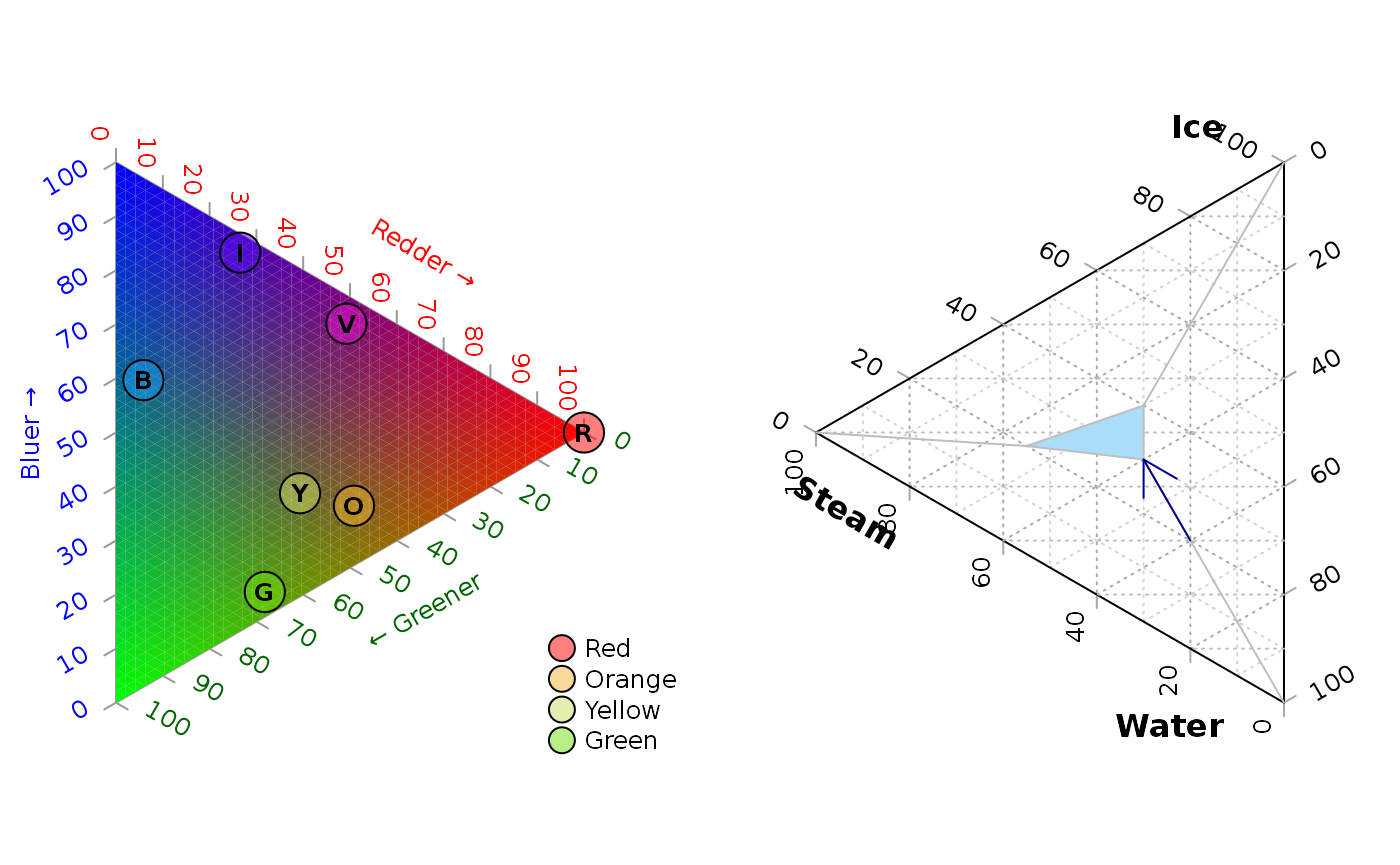
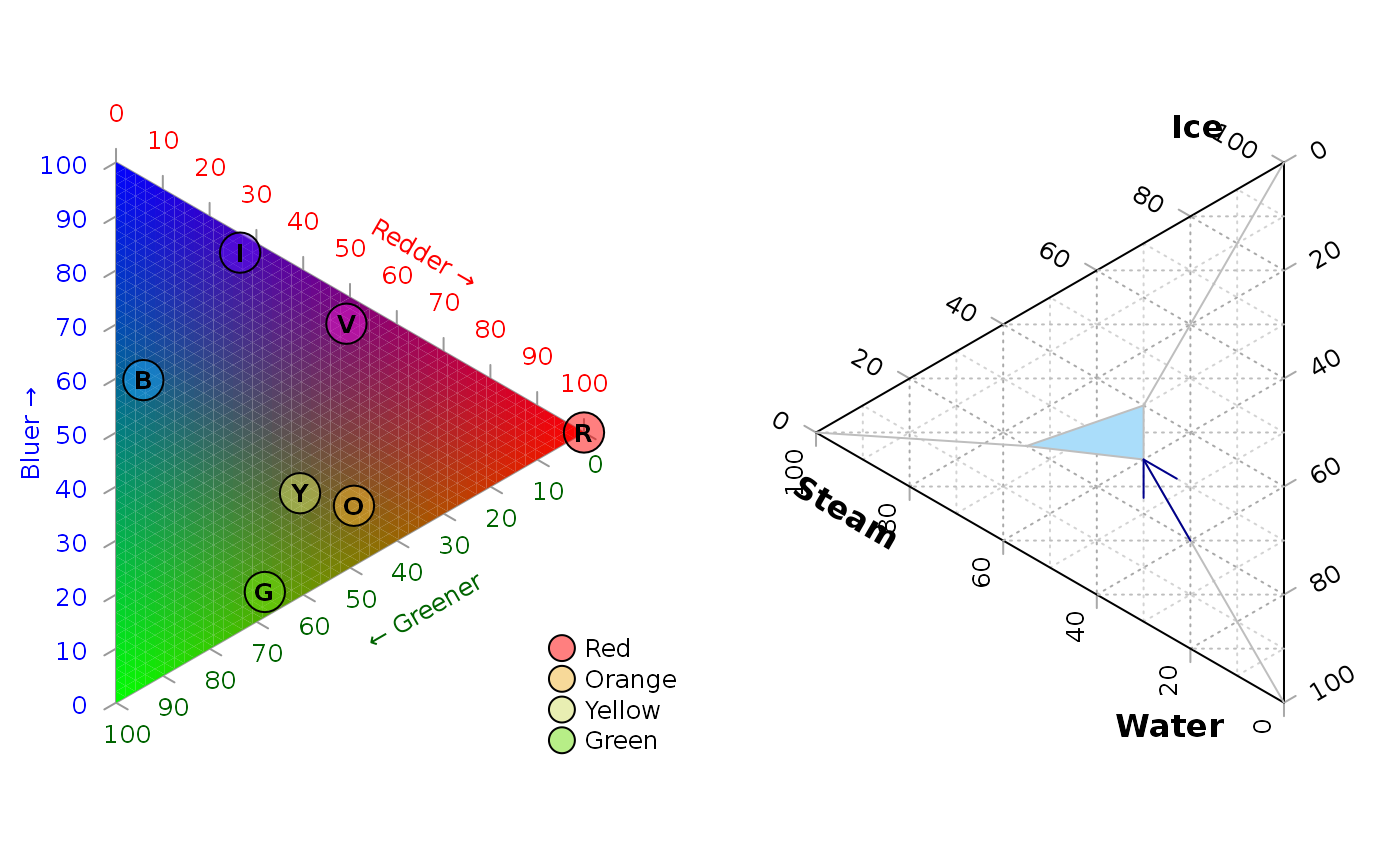
Built site for Ternary: 1.1.4.9002@7cd365e

diff --git a/dev/articles/Ternary.html b/dev/articles/Ternary.html
@@ -40,7 +40,7 @@
       </button>
       <span class="navbar-brand">
         <a class="navbar-link" href="../index.html">Ternary</a>
-        <span class="version label label-danger" data-toggle="tooltip" data-placement="bottom" title="In-development version">1.1.4.9001</span>
+        <span class="version label label-danger" data-toggle="tooltip" data-placement="bottom" title="In-development version">1.1.4.9002</span>
       </span>
     </div>
 
@@ -139,13 +139,14 @@
 <h2 class="hasAnchor">
 <a href="#plot-two-stylised-plots-side-by-side-and-plot-data" class="anchor"></a>Plot two stylised plots side by side, and plot data</h2>
 <div class="sourceCode" id="cb6"><pre class="downlit">
-<span class="fu"><a href="https://rdrr.io/r/graphics/par.html">par</a></span>(mfrow=<span class="fu"><a href="https://rdrr.io/r/base/c.html">c</a></span>(<span class="fl">1</span>, <span class="fl">2</span>), mar=<span class="fu"><a href="https://rdrr.io/r/base/rep.html">rep</a></span>(<span class="fl">0.3</span>, <span class="fl">4</span>))
-<span class="fu"><a href="../reference/TernaryPlot.html">TernaryPlot</a></span>(alab=<span class="st">"Redder \u2192"</span>, blab=<span class="st">"\u2190 Greener"</span>, clab=<span class="st">"Bluer \u2192"</span>,
-            lab.col=<span class="fu"><a href="https://rdrr.io/r/base/c.html">c</a></span>(<span class="st">'red'</span>, <span class="st">'darkgreen'</span>, <span class="st">'blue'</span>),
-            point=<span class="st">'right'</span>, lab.cex=<span class="fl">0.8</span>, grid.minor.lines=<span class="fl">0</span>,
-            grid.lty=<span class="st">'solid'</span>, col=<span class="fu"><a href="https://rdrr.io/r/grDevices/rgb.html">rgb</a></span>(<span class="fl">0.9</span>, <span class="fl">0.9</span>, <span class="fl">0.9</span>), grid.col=<span class="st">'white'</span>, 
-            axis.col=<span class="fu"><a href="https://rdrr.io/r/grDevices/rgb.html">rgb</a></span>(<span class="fl">0.6</span>, <span class="fl">0.6</span>, <span class="fl">0.6</span>), ticks.col=<span class="fu"><a href="https://rdrr.io/r/grDevices/rgb.html">rgb</a></span>(<span class="fl">0.6</span>, <span class="fl">0.6</span>, <span class="fl">0.6</span>),
-            padding=<span class="fl">0.08</span>)
+<span class="fu"><a href="https://rdrr.io/r/graphics/par.html">par</a></span>(mfrow = <span class="fu"><a href="https://rdrr.io/r/base/c.html">c</a></span>(<span class="fl">1</span>, <span class="fl">2</span>), mar = <span class="fu"><a href="https://rdrr.io/r/base/rep.html">rep</a></span>(<span class="fl">0.3</span>, <span class="fl">4</span>))
+<span class="fu"><a href="../reference/TernaryPlot.html">TernaryPlot</a></span>(alab = <span class="st">"Redder \u2192"</span>, blab = <span class="st">"\u2190 Greener"</span>, clab = <span class="st">"Bluer \u2192"</span>,
+            lab.col = <span class="fu"><a href="https://rdrr.io/r/base/c.html">c</a></span>(<span class="st">'red'</span>, <span class="st">'darkgreen'</span>, <span class="st">'blue'</span>),
+            point = <span class="st">'right'</span>, lab.cex = <span class="fl">0.8</span>, grid.minor.lines = <span class="fl">0</span>,
+            grid.lty = <span class="st">'solid'</span>, col = <span class="fu"><a href="https://rdrr.io/r/grDevices/rgb.html">rgb</a></span>(<span class="fl">0.9</span>, <span class="fl">0.9</span>, <span class="fl">0.9</span>), grid.col = <span class="st">'white'</span>, 
+            axis.col = <span class="fu"><a href="https://rdrr.io/r/grDevices/rgb.html">rgb</a></span>(<span class="fl">0.6</span>, <span class="fl">0.6</span>, <span class="fl">0.6</span>), ticks.col = <span class="fu"><a href="https://rdrr.io/r/grDevices/rgb.html">rgb</a></span>(<span class="fl">0.6</span>, <span class="fl">0.6</span>, <span class="fl">0.6</span>),
+            axis.rotate = <span class="fl">FALSE</span>,
+            padding = <span class="fl">0.08</span>)
 <span class="co"># Colour the background:</span>
 <span class="kw">cols</span> <span class="op">&lt;-</span> <span class="fu"><a href="../reference/TernaryPointValues.html">TernaryPointValues</a></span>(<span class="kw">rgb</span>)
 <span class="fu"><a href="../reference/ColourTernary.html">ColourTernary</a></span>(<span class="kw">cols</span>, spectrum = <span class="kw">NULL</span>)

diff --git a/dev/reference/TernaryPlot.html b/dev/reference/TernaryPlot.html
@@ -88,7 +88,7 @@
       </button>
       <span class="navbar-brand">
         <a class="navbar-link" href="../index.html">Ternary</a>
-        <span class="version label label-danger" data-toggle="tooltip" data-placement="bottom" title="In-development version">1.1.4.9001</span>
+        <span class="version label label-danger" data-toggle="tooltip" data-placement="bottom" title="In-development version">1.1.4.9002</span>
       </span>
     </div>
 
@@ -184,6 +184,8 @@
   axis.labels = <span class='fl'>TRUE</span>,
   axis.cex = <span class='fl'>0.8</span>,
   axis.font = <span class='fu'><a href='https://rdrr.io/r/graphics/par.html'>par</a></span>(<span class='st'>"font"</span>),
+  axis.rotate = <span class='fl'>TRUE</span>,
+  axis.pos = <span class='kw'>NULL</span>,
   axis.tick = <span class='fl'>TRUE</span>,
   axis.lwd = <span class='fl'>1</span>,
   ticks.lwd = <span class='kw'>axis.lwd</span>,
@@ -335,6 +337,19 @@ Use a vector of length three to set a different value for each direction.</p></t
     <tr>
       <th>axis.font</th>
       <td><p>Font for text. Defaults to <code><a href='https://rdrr.io/r/graphics/par.html'>par('font')</a></code>.</p></td>
+    </tr>
+    <tr>
+      <th>axis.rotate</th>
+      <td><p>Logical specifying whether to rotate axis labels
+to parallel grid lines, or numeric specifying custom rotation for each axis,
+to be passed as <code>srt</code> parameter to <code><a href='https://rdrr.io/r/graphics/text.html'>text()</a></code>.  Expand margins or set
+<code><a href='https://rdrr.io/r/graphics/par.html'>par(xpd = NA)</a></code> if labels are clipped.</p></td>
+    </tr>
+    <tr>
+      <th>axis.pos</th>
+      <td><p>Vector of length one or three specifying position of axis
+labels, to be passed as <code>pos</code> parameter to <code><a href='https://rdrr.io/r/graphics/text.html'>text()</a></code>; populated automatically
+if <code>NULL</code> (the default).</p></td>
     </tr>
     <tr>
       <th>axis.tick</th>

diff --git a/dev/news/index.html b/dev/news/index.html
@@ -87,7 +87,7 @@
       </button>
       <span class="navbar-brand">
         <a class="navbar-link" href="../index.html">Ternary</a>
-        <span class="version label label-danger" data-toggle="tooltip" data-placement="bottom" title="In-development version">1.1.4.9001</span>
+        <span class="version label label-danger" data-toggle="tooltip" data-placement="bottom" title="In-development version">1.1.4.9002</span>
       </span>
     </div>
 
@@ -139,6 +139,14 @@
       <small>Source: <a href='https://github.com/ms609/Ternary/blob/master/NEWS.md'><code>NEWS.md</code></a></small>
     </div>
 
+    <div id="ternary-v1-1-4-9002-development" class="section level1">
+<h1 class="page-header" data-toc-text="1.1.4.9002">
+<a href="#ternary-v1-1-4-9002-development" class="anchor"></a>Ternary v1.1.4.9002 (development)<small> Unreleased </small>
+</h1>
+<ul>
+<li>Optional parameter <code>axis.rotate</code> to allow axis labels to be plotted ‘unrotated’ (<a href="https://github.com/ms609/Ternary/issues/38" class="uri">https://github.com/ms609/Ternary/issues/38</a>).</li>
+</ul>
+</div>
     <div id="ternary-v1-1-4-9001-development" class="section level1">
 <h1 class="page-header" data-toc-text="1.1.4.9001">
 <a href="#ternary-v1-1-4-9001-development" class="anchor"></a>Ternary v1.1.4.9001 (development)<small> Unreleased </small>

diff --git a/dev/reference/TernaryPointValues.html b/dev/reference/TernaryPointValues.html
@@ -90,7 +90,7 @@ TernaryDensity() calculates the density of points in each grid cell." />
       </button>
       <span class="navbar-brand">
         <a class="navbar-link" href="../index.html">Ternary</a>
-        <span class="version label label-danger" data-toggle="tooltip" data-placement="bottom" title="In-development version">1.1.4.9001</span>
+        <span class="version label label-danger" data-toggle="tooltip" data-placement="bottom" title="In-development version">1.1.4.9002</span>
       </span>
     </div>
 

diff --git a/dev/reference/TernaryCoords.html b/dev/reference/TernaryCoords.html
@@ -90,7 +90,7 @@ sent to standard functions in the 'graphics' package." />
       </button>
       <span class="navbar-brand">
         <a class="navbar-link" href="../index.html">Ternary</a>
-        <span class="version label label-danger" data-toggle="tooltip" data-placement="bottom" title="In-development version">1.1.4.9001</span>
+        <span class="version label label-danger" data-toggle="tooltip" data-placement="bottom" title="In-development version">1.1.4.9002</span>
       </span>
     </div>
 

diff --git a/dev/reference/TernaryTiles.html b/dev/reference/TernaryTiles.html
@@ -89,7 +89,7 @@ TernaryPointValues and TernaryContour." />
       </button>
       <span class="navbar-brand">
         <a class="navbar-link" href="../index.html">Ternary</a>
-        <span class="version label label-danger" data-toggle="tooltip" data-placement="bottom" title="In-development version">1.1.4.9001</span>
+        <span class="version label label-danger" data-toggle="tooltip" data-placement="bottom" title="In-development version">1.1.4.9002</span>
       </span>
     </div>
 

diff --git a/dev/reference/CoordinatesToXY.html b/dev/reference/CoordinatesToXY.html
@@ -89,7 +89,7 @@ converts to X and Y coordinates." />
       </button>
       <span class="navbar-brand">
         <a class="navbar-link" href="../index.html">Ternary</a>
-        <span class="version label label-danger" data-toggle="tooltip" data-placement="bottom" title="In-development version">1.1.4.9001</span>
+        <span class="version label label-danger" data-toggle="tooltip" data-placement="bottom" title="In-development version">1.1.4.9002</span>
       </span>
     </div>
 

diff --git a/dev/reference/TriangleCentres.html b/dev/reference/TriangleCentres.html
@@ -89,7 +89,7 @@ tiled to cover a ternary plot." />
       </button>
       <span class="navbar-brand">
         <a class="navbar-link" href="../index.html">Ternary</a>
-        <span class="version label label-danger" data-toggle="tooltip" data-placement="bottom" title="In-development version">1.1.4.9001</span>
+        <span class="version label label-danger" data-toggle="tooltip" data-placement="bottom" title="In-development version">1.1.4.9002</span>
       </span>
     </div>
 

diff --git a/dev/reference/OutsidePlot.html b/dev/reference/OutsidePlot.html
@@ -89,7 +89,7 @@ a plotted ternary diagram." />
       </button>
       <span class="navbar-brand">
         <a class="navbar-link" href="../index.html">Ternary</a>
-        <span class="version label label-danger" data-toggle="tooltip" data-placement="bottom" title="In-development version">1.1.4.9001</span>
+        <span class="version label label-danger" data-toggle="tooltip" data-placement="bottom" title="In-development version">1.1.4.9002</span>
       </span>
     </div>
 

diff --git a/dev/404.html b/dev/404.html
@@ -87,7 +87,7 @@
       </button>
       <span class="navbar-brand">
         <a class="navbar-link" href="https://ms609.github.io/Ternary/index.html">Ternary</a>
-        <span class="version label label-danger" data-toggle="tooltip" data-placement="bottom" title="In-development version">1.1.4.9001</span>
+        <span class="version label label-danger" data-toggle="tooltip" data-placement="bottom" title="In-development version">1.1.4.9002</span>
       </span>
     </div>
 

diff --git a/dev/reference/ReflectedEquivalents.html b/dev/reference/ReflectedEquivalents.html
@@ -90,7 +90,7 @@ axis or corner." />
       </button>
       <span class="navbar-brand">
         <a class="navbar-link" href="../index.html">Ternary</a>
-        <span class="version label label-danger" data-toggle="tooltip" data-placement="bottom" title="In-development version">1.1.4.9001</span>
+        <span class="version label label-danger" data-toggle="tooltip" data-placement="bottom" title="In-development version">1.1.4.9002</span>
       </span>
     </div>
 

diff --git a/dev/reference/TernaryDensityContour.html b/dev/reference/TernaryDensityContour.html
@@ -89,7 +89,7 @@ point density." />
       </button>
       <span class="navbar-brand">
         <a class="navbar-link" href="../index.html">Ternary</a>
-        <span class="version label label-danger" data-toggle="tooltip" data-placement="bottom" title="In-development version">1.1.4.9001</span>
+        <span class="version label label-danger" data-toggle="tooltip" data-placement="bottom" title="In-development version">1.1.4.9002</span>
       </span>
     </div>
 
